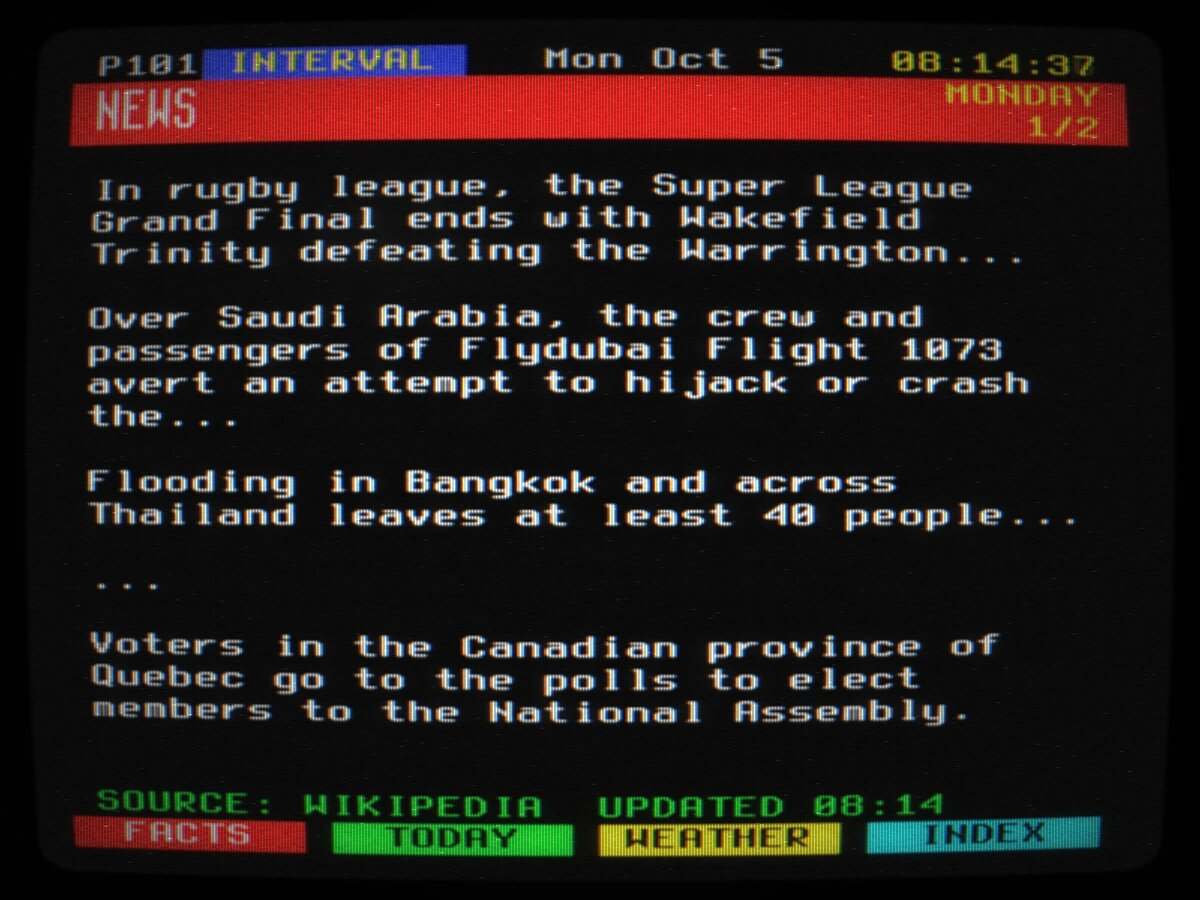
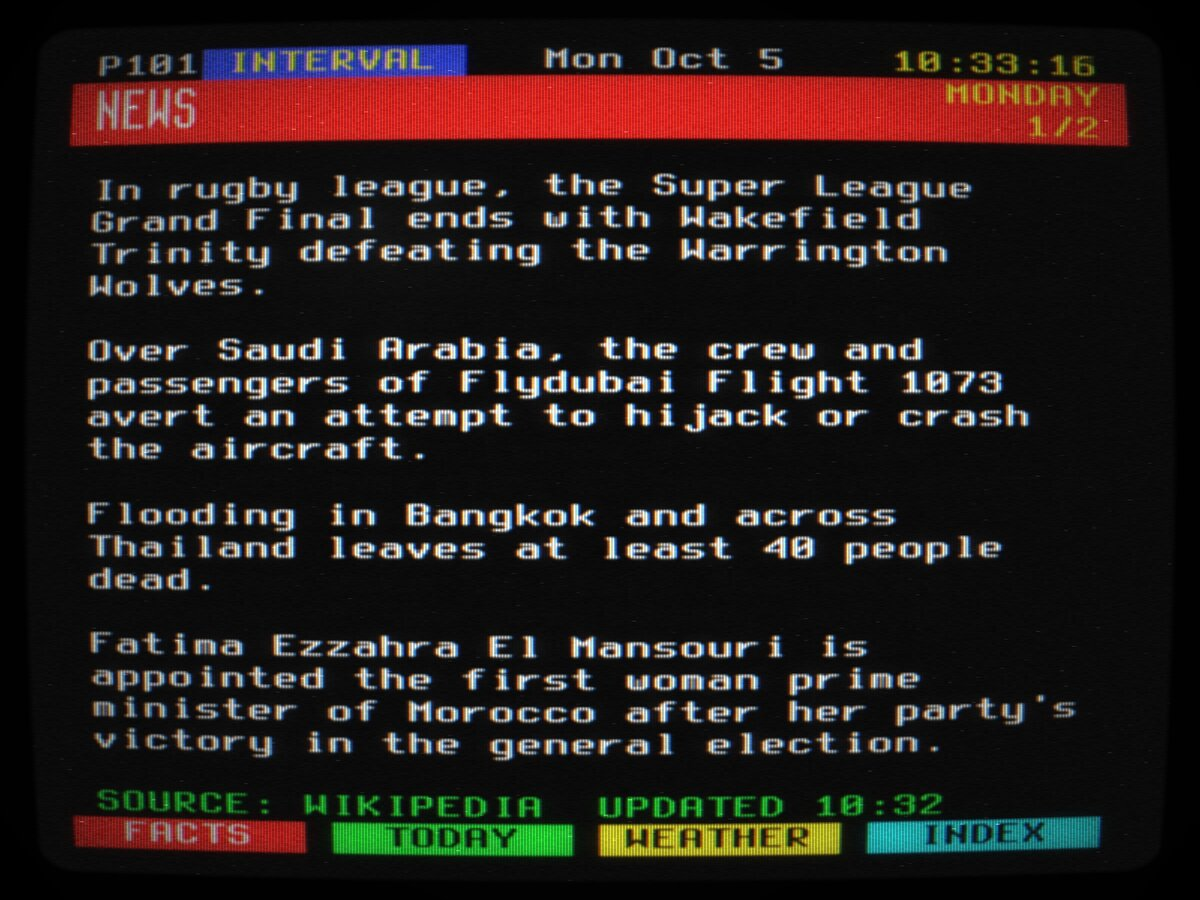
Phone: HELP and CLEAR on the remote; a welcome for keys or remote; sport seasons
From a phone pass with real touch events (tools/shoot.mjs session gains
tap and swipe; a mouse click is ignored by design):
- Taps on page numbers, swipes and the coloured keys all work; a number in
  a data page ("S&P 500") does not link.
- The remote had no help and no Escape: HELP and CLEAR fill its two empty
  slots, and a test presses every button on it.
- The welcome (190) said "Press N" and "Press H" to a phone: now N (or
  CYCLE), H (or HOLD), and it names sport, pictures and cities.
- An empty league page says when its season starts (or that it is over)
  and why cycling skips it; a playoff scoreboard says POSTSEASON. The ESPN
  captures had lost leagues[0].season to trimming; the real block from a
  2026-10-05 answer was put back, the games unchanged.
- page-101.jpg re-shot: it showed the cut-off stories.

diff --git a/pages.js b/pages.js
@@ -1104,6 +1104,16 @@ export function gameStatus(g) {
   const time = d.toLocaleTimeString('en-US', { hour: 'numeric', minute: '2-digit' }).replace(' ', '').toUpperCase()
   return { text: `${day} ${time}`, fg: CYAN }
 }
+/** What an empty league page says: when the season starts, that it is over,
+ *  or (knowing neither) that there are no games this week. */
+export function offSeasonWords(season, now) {
+  const day = (ms) => new Date(ms).toLocaleDateString('en-US', { month: 'long', day: 'numeric' })
+  if (season?.start && season.start > now) return `No games yet. The ${season.label ? `${season.label} ` : ''}season starts ${day(season.start)}.`
+  if (season?.end && season.end < now) return 'The season is over.'
+  if (/OFF/.test(season?.phase || '')) return "It's the off season."
+  return 'No games this week.'
+}
+
 /** Where a game goes on the scoreboard: live games, then results from
  *  yesterday or today, then what is coming up, then older results.
  *  2026-10-05: it was live, upcoming, results, so on a Monday morning the
@@ -1135,8 +1145,19 @@ for (const [key, name, , num] of LEAGUES) {
         return chunks.map((chunk, i) => {
           const p = new Page()
           masthead(p, num, clip(name, 22), { sub: i, subs: chunks.length, right: 'SPORT' })
-          if (!games.length) p.wrap(BODY_TOP + 1, 1, 'No games this week.', 38, CYAN)
-          else { p.text(BODY_TOP, 1, 'AWAY', CYAN); p.text(BODY_TOP, 11, 'HOME', CYAN) }
+          const season = data[`sport_${key}`].season
+          if (!games.length) {
+            // Why the page is empty, and when it will not be (2026-10-05):
+            // "No games this week" said nothing about whether that meant
+            // tonight or March, nor why cycling had stopped coming here.
+            const r = p.wrap(BODY_TOP + 1, 1, offSeasonWords(season, ctx.now), 38, CYAN)
+            p.wrap(r + 1, 1, 'Cycling passes this page by until there are games to show.', 38, WHITE)
+          } else {
+            p.text(BODY_TOP, 1, 'AWAY', CYAN); p.text(BODY_TOP, 11, 'HOME', CYAN)
+            // The phase when it is not the ordinary run of the season: a
+            // playoff scoreboard is news in itself.
+            if (season?.phase && season.phase !== 'REGULAR SEASON') p.text(BODY_TOP, 22, clip(season.phase, 17), MAGENTA)
+          }
           chunk.forEach((g, k) => {
             const r = BODY_TOP + 2 + k
             const st = gameStatus(g)

diff --git a/feeds.js b/feeds.js
@@ -230,6 +230,22 @@ export function parseScoreboard(json) {
       }
       return { date: Date.parse(e.date), state: e.status?.type?.state || 'pre', detail: fold(e.status?.type?.shortDetail || ''), away: side('away'), home: side('home') }
     }).filter(g => Number.isFinite(g.date)),
+    season: parseSeason(json.leagues?.[0]?.season),
+  }
+}
+/** The league's season as ESPN gives it beside the games (2026-10-05):
+ *  { label, phase, start, end }, or null. What an empty league page says --
+ *  when the season starts, or that it is over -- and the phase a page in the
+ *  postseason shows. Every field is optional: an off-season answer has not
+ *  been seen yet (the three leagues were all playing when this was added). */
+export function parseSeason(s) {
+  if (!s || typeof s !== 'object') return null
+  const start = Date.parse(s.startDate), end = Date.parse(s.endDate)
+  return {
+    label: fold(String(s.displayName ?? s.year ?? '')),
+    phase: fold(String(s.type?.name ?? '')).toUpperCase(),
+    start: Number.isFinite(start) ? start : null,
+    end: Number.isFinite(end) ? end : null,
   }
 }
 export const anyLive = (data) => !!data?.games?.some(g => g.state === 'in')

diff --git a/index.html b/index.html
@@ -98,6 +98,10 @@
     <button class="small" data-key="ArrowDown" aria-label="Previous page">P-</button>
     <button class="small" data-key="c">COLOUR</button>
     <button class="small" data-key="n">CYCLE</button>
+    <!-- 2026-10-05: help and Escape were keyboard-only, so a phone could not
+         reach 199 by a button or give up a search for a page not on air. -->
+    <button class="small" data-key="?" aria-label="Help, page 199">HELP</button>
+    <button class="small" data-key="Escape" aria-label="Clear the number or give up the search">CLEAR</button>
   </div>
   <pre id="fault"></pre>
   <script>

diff --git a/CLAUDE.md b/CLAUDE.md
@@ -209,7 +209,10 @@ rebuilt.
   **unofficial and undocumented** and could change without notice; the
   capture is the only spec (`tests/fixtures/espn-*.json`). Games run live,
   then the last day's results, then what's coming, then older results
-  (`gameRank`, by calendar day, not 24 hours): on a Monday morning, all of
+  The page shows the season's phase when it is not the regular season
+  (POSTSEASON), and a league with no games says when its season starts
+  (`parseSeason`, `offSeasonWords`); off-season answers have not been seen,
+  so every season field is optional. (`gameRank`, by calendar day, not 24 hours): on a Monday morning, all of
   Sunday's finals above the evening game.
   A scoreboard with
   a game in progress refreshes every minute (`liveRefreshMs` + `isLive` on the
@@ -255,7 +258,10 @@ rebuilt.
   `pointer.js` `cellAt` inverts the CRT composite's geometry (fill, aspect,
   barrel curve), and `tests/pointer.test.mjs` runs the warp forwards to check
   the corners. The phone remote's colour buttons carry the current labels
-  through the `INTERVAL_FASTEXT` hook (`program.publishFastext`).
+  through the `INTERVAL_FASTEXT` hook (`program.publishFastext`). It has HELP
+  and CLEAR (Escape) since 2026-10-05; `tests/keys.test.mjs` presses every
+  button on it. `tools/shoot.mjs`'s session has `tap` and `swipe` (real touch
+  events through CDP) for checking a phone, since a mouse click is ignored.
 - **Subpage timing is per page** (`subpageMs`): 9s by default, and 12-16s on
   pages of running text.
 - **Notice pages come from `editorial.json`.** Any free page number works;

diff --git a/tests/fixtures/README.md b/tests/fixtures/README.md
@@ -15,7 +15,7 @@ unused fields dropped) and otherwise untouched.
 | open-meteo-cities.json | api.open-meteo.com forecast, twelve US and twelve world cities in one request (recaptured 2026-10-01) |
 | open-meteo.json | api.open-meteo.com forecast, 5 days, New York |
 | markets.json | tools/fetch-markets.mjs's own output: FRED daily closes, eight series, plus the five household series for 402. One hand repair (2026-10-01): the capture's Nikkei history held three zeros, the fetcher reading FRED's empty holiday values as closes; they were replaced with the three earlier closes FRED gives for that window, so the row is what the fixed fetcher makes of the same day. |
-| espn-*.json | site.api.espn.com scoreboards, one per league on 601-603 (unofficial, undocumented API) |
+| espn-*.json | site.api.espn.com scoreboards, one per league on 601-603 (unofficial, undocumented API). Trimmed when captured, which dropped `leagues[0].season`; the real season block from a 2026-10-05 answer was added back to each, the games left as they were |
 | launches.json | ll.thespacedevs.com 2.2.0, upcoming launches, limit 6 |
 | holidays-us.json | date.nager.at v3, NextPublicHolidays/US |
 
